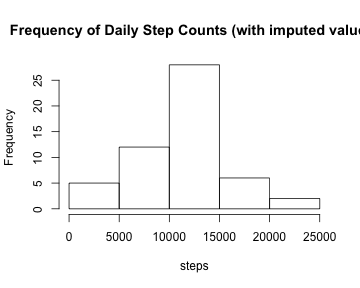
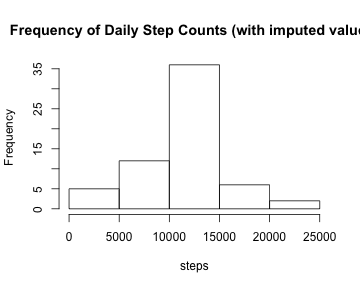
completed step 3

diff --git a/PA1_template.html b/PA1_template.html
@@ -251,42 +251,20 @@ plot(by.interval, type=&quot;l&quot;, main=&quot;Steps per 5-minute Interval ave
 
 <p>Of <code>17568</code> observations in our data, we&#39;re missing <code>2304</code> of them. To fill this out without a lot of complexity, we can use the means for the corresponding intervals for days for which we do have data (which we computed above).</p>
 
-<pre><code class="r">imputed.data &lt;- merge(data, by.interval, by=&quot;interval&quot;, suffixes=c(&quot;&quot;,&quot;.mean&quot;), all = TRUE)
-</code></pre>
-
-<pre><code>## Error: &#39;by&#39; must specify a uniquely valid column
-</code></pre>
-
-<pre><code class="r">NAs &lt;- is.na(imputed.data$steps)
-</code></pre>
-
-<pre><code>## Error: object &#39;imputed.data&#39; not found
-</code></pre>
-
-<pre><code class="r">imputed.data$steps[NAs] &lt;- imputed.data$steps.mean[NAs]
-</code></pre>
-
-<pre><code>## Error: object &#39;imputed.data&#39; not found
+<pre><code class="r">by.interval &lt;- aggregate(steps ~ interval, data=data, FUN = mean, na.rm=TRUE)
+imputed.data &lt;- merge(data, by.interval, by=&quot;interval&quot;, suffixes=c(&quot;&quot;,&quot;.mean&quot;), all = TRUE)
+NAs &lt;- is.na(imputed.data$steps)
+imputed.data$steps[NAs] &lt;- imputed.data$steps.mean[NAs]
 </code></pre>
 
 <p>Now let&#39;s perform our previous exploration using the <em>imputed</em> data:</p>
 
 <pre><code class="r">imputed.by.date &lt;- aggregate(steps ~ date, data=imputed.data, FUN=sum, na.rm=TRUE)
+steps &lt;- imputed.by.date$steps
+hist(steps, main=&quot;Frequency of Daily Step Counts (with imputed values)&quot;)
 </code></pre>
 
-<pre><code>## Error: object &#39;imputed.data&#39; not found
-</code></pre>
-
-<pre><code class="r">steps &lt;- imputed.by.date$steps
-</code></pre>
-
-<pre><code>## Error: object &#39;imputed.by.date&#39; not found
-</code></pre>
-
-<pre><code class="r">hist(steps, main=&quot;Frequency of Daily Step Counts (with imputed values)&quot;)
-</code></pre>
-
[2 lines of base64/hex data omitted]
 
 <pre><code class="r">mean(steps)
 </code></pre>
@@ -297,7 +275,7 @@ plot(by.interval, type=&quot;l&quot;, main=&quot;Steps per 5-minute Interval ave
 <pre><code class="r">median(steps)
 </code></pre>
 
-<pre><code>## [1] 10765
+<pre><code>## [1] 10766
 </code></pre>
 
 <p>We see no significant change upon imputing values using our simple method.</p>

diff --git a/PA1_template.md b/PA1_template.md
@@ -68,48 +68,17 @@ Of ``17568`` observations in our data, we're missing ``2304`` of them. To fill t
 
 
 ```r
+by.interval <- aggregate(steps ~ interval, data=data, FUN = mean, na.rm=TRUE)
 imputed.data <- merge(data, by.interval, by="interval", suffixes=c("",".mean"), all = TRUE)
-```
-
-```
-## Error: 'by' must specify a uniquely valid column
-```
-
-```r
 NAs <- is.na(imputed.data$steps)
-```
-
-```
-## Error: object 'imputed.data' not found
-```
-
-```r
 imputed.data$steps[NAs] <- imputed.data$steps.mean[NAs]
-```
-
-```
-## Error: object 'imputed.data' not found
 ```
 
 Now let's perform our previous exploration using the _imputed_ data:
 
 ```r
 imputed.by.date <- aggregate(steps ~ date, data=imputed.data, FUN=sum, na.rm=TRUE)
-```
-
-```
-## Error: object 'imputed.data' not found
-```
-
-```r
 steps <- imputed.by.date$steps
-```
-
-```
-## Error: object 'imputed.by.date' not found
-```
-
-```r
 hist(steps, main="Frequency of Daily Step Counts (with imputed values)")
 ```
 
@@ -128,7 +97,7 @@ median(steps)
 ```
 
 ```
-## [1] 10765
+## [1] 10766
 ```
 We see no significant change upon imputing values using our simple method.
 
